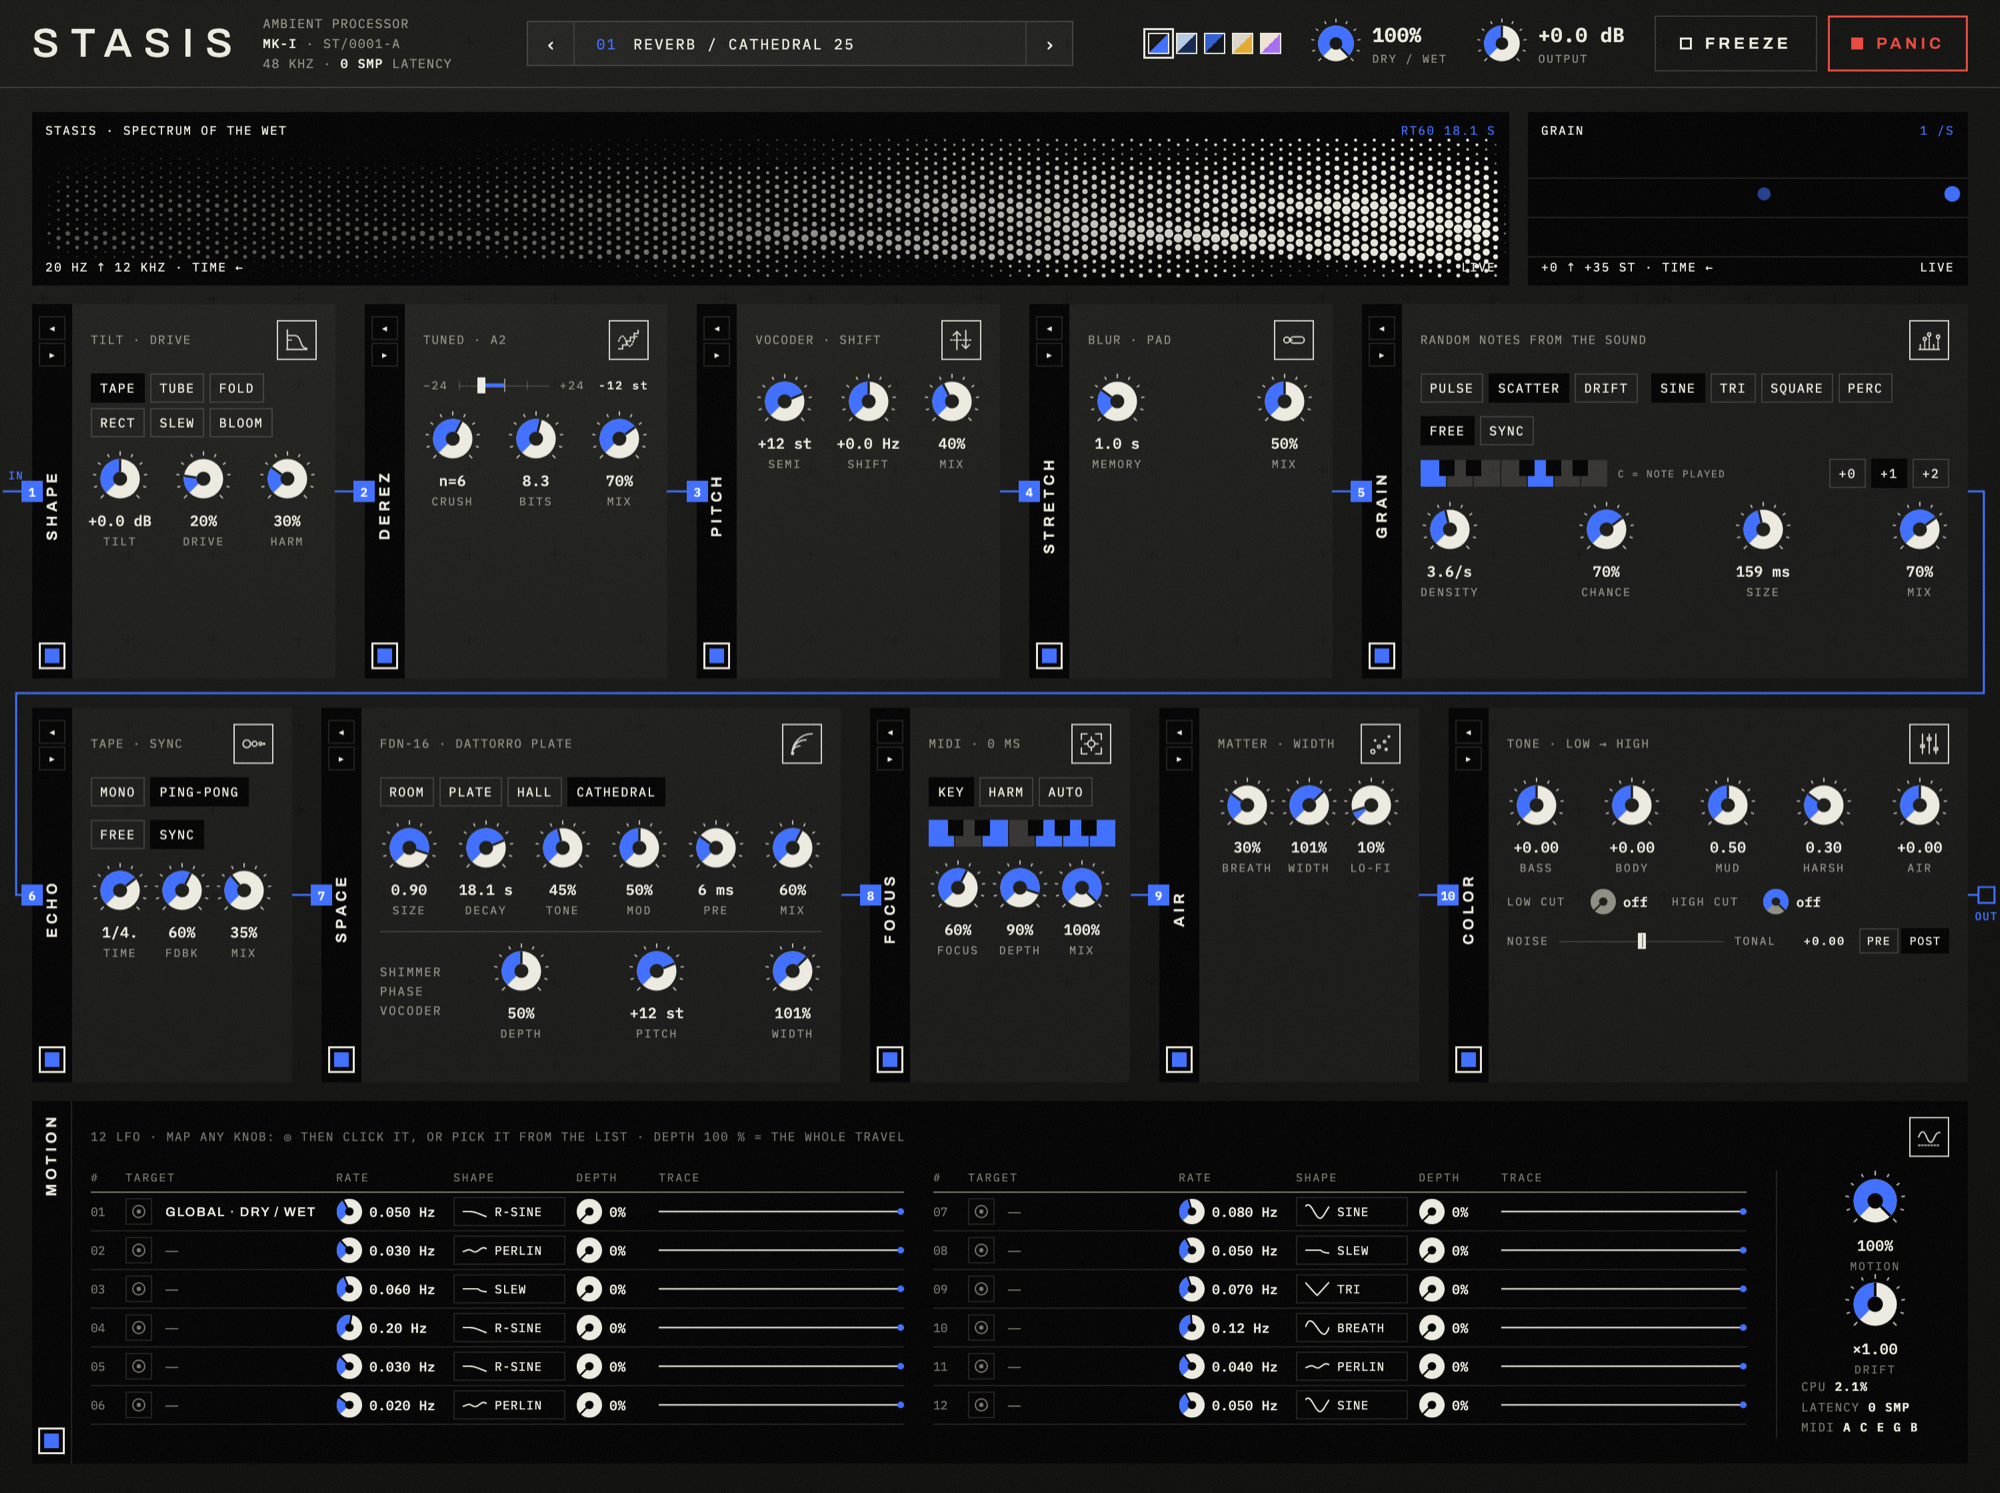
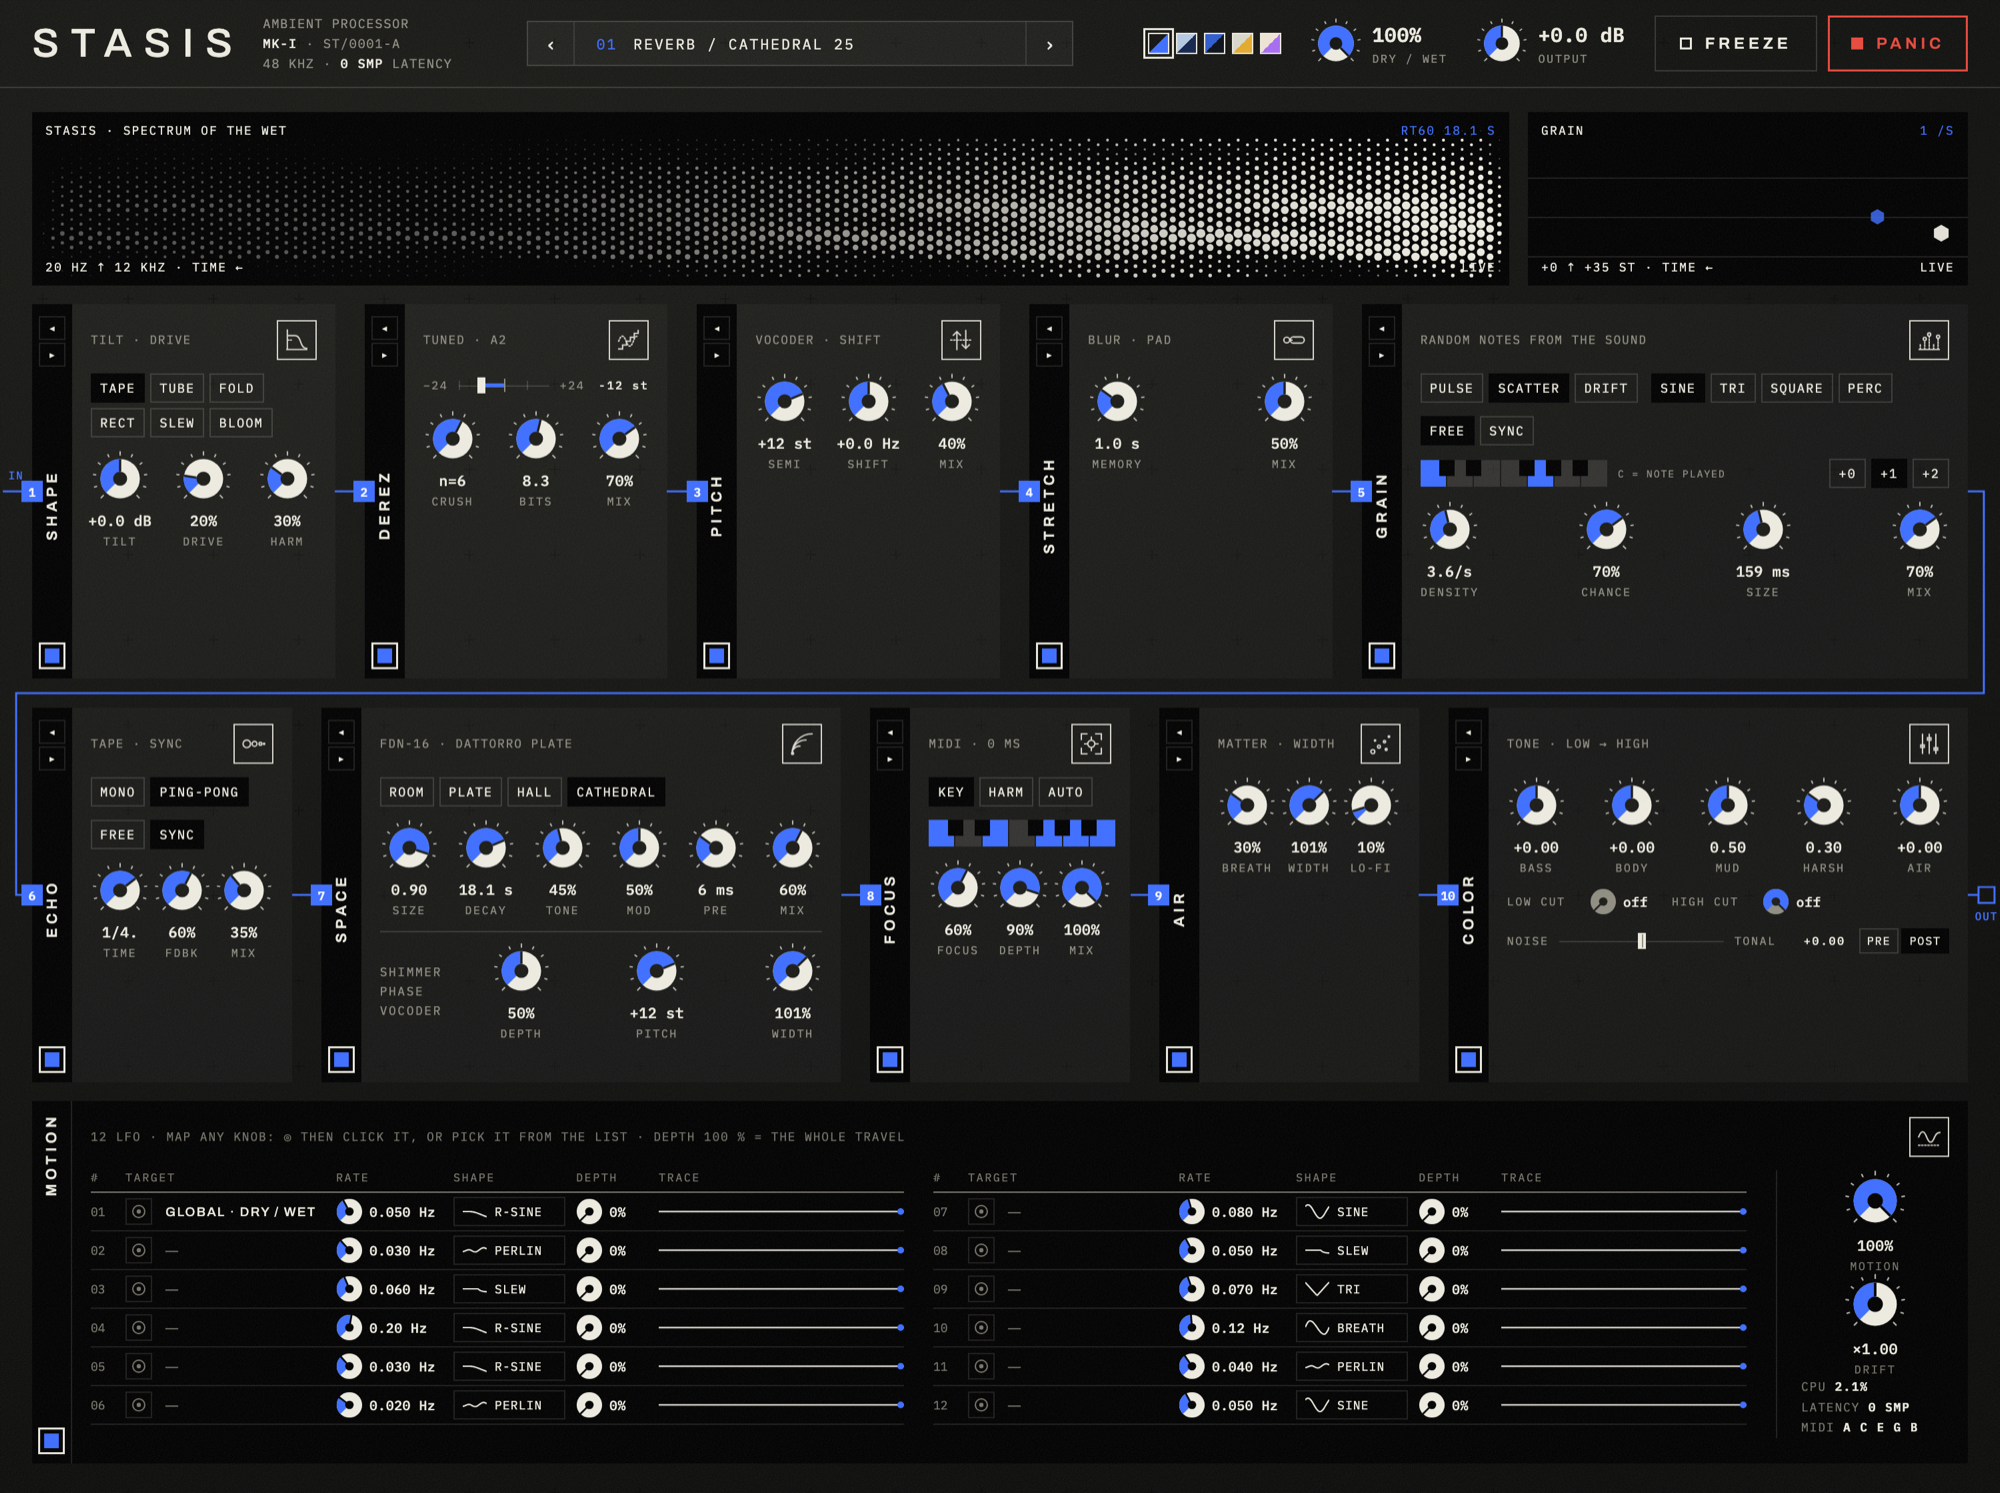
Grain view: one hexagon per grain, sized by its volume

Changed region(s): [[0.031, 0.0924, 0.775, 0.1849]]

diff --git a/design/mockup.html b/design/mockup.html
@@ -1150,16 +1150,22 @@ function drawGrains(now) {
   [0, 12, 24].forEach(st => { ctx.beginPath(); ctx.moveTo(0, yOf(st) + .5); ctx.lineTo(W, yOf(st) + .5); ctx.stroke(); });  // octaves
   while (grains.length && now - grains[0].at > GRAIN_WINDOW + 4000) grains.shift();
   let recent = 0;
-  // One dot per grain, at its note (height) and time; its size is its volume.
+  // One hexagon per grain, at its note (height) and time; its size is its volume.
+  // Hexagons tile like the spectrum's staggered halftone, so both views read as one.
+  const hex = (x, y, r) => {
+    ctx.beginPath();
+    for (let k = 0; k < 6; k++) { const a = Math.PI / 6 + k * Math.PI / 3; k ? ctx.lineTo(x + r * Math.cos(a), y + r * Math.sin(a)) : ctx.moveTo(x + r * Math.cos(a), y + r * Math.sin(a)); }
+    ctx.closePath(); ctx.fill();
+  };
   grains.forEach(g => {
     const age = now - g.at; if (age < 1000) recent++;
     const x = W - (age + g.len * 500) / GRAIN_WINDOW * W, y = yOf(g.st);  // centred on the grain
-    if (x < -8) return;
+    if (x < -10) return;
     const level = g.level ?? .15;
-    const r = 1.2 + 6 * Math.sqrt(Math.min(1, level / .35));
+    const r = 1.6 + 6.5 * Math.sqrt(Math.min(1, level / .35));
     ctx.fillStyle = [ink, acc, spark][Math.min(2, Math.floor(g.st / 12))];  // the brand's three inks: one per octave
     ctx.globalAlpha = Math.max(.2, 1 - age / GRAIN_WINDOW);
-    ctx.beginPath(); ctx.arc(x, y, r, 0, Math.PI * 2); ctx.fill();
+    hex(x, y, r);
   });
   ctx.globalAlpha = 1;
   document.getElementById('grainRate').textContent = recent + ' /S';

diff --git a/README.md b/README.md
@@ -117,7 +117,7 @@ Rejoue de petits bouts de ce qui vient d'être joué, sous une enveloppe, à des
 | `SIZE` | 20 ms à 2 s |
 | `MIX` | Dosage (à 100 % : seulement les notes) |
 
-Le petit écran **GRAIN**, en haut à droite, dessine chaque grain par un point : sa hauteur donne la transposition (lignes = octaves), sa taille son volume, sa couleur son octave (blanc, bleu, pêche). Mesuré sur un son continu à 220 Hz (unisson + quinte, +1 octave) : 66 % de silence entre les notes, énergie sur 220 / 330 / 440 / 660 Hz, une note non autorisée 50 dB plus bas.
+Le petit écran **GRAIN**, en haut à droite, dessine chaque grain par un hexagone : sa hauteur donne la transposition (lignes = octaves), sa taille son volume, sa couleur son octave (blanc, bleu, pêche). Mesuré sur un son continu à 220 Hz (unisson + quinte, +1 octave) : 66 % de silence entre les notes, énergie sur 220 / 330 / 440 / 660 Hz, une note non autorisée 50 dB plus bas.
 
 ### 05 · ECHO — écho à bande
 Saturation (tanh anti-repliement), filtres de bande et souffle dans la boucle, sans wow ni flutter : les répétitions restent justes. Les changements de temps glissent comme une bande qui change de vitesse.
